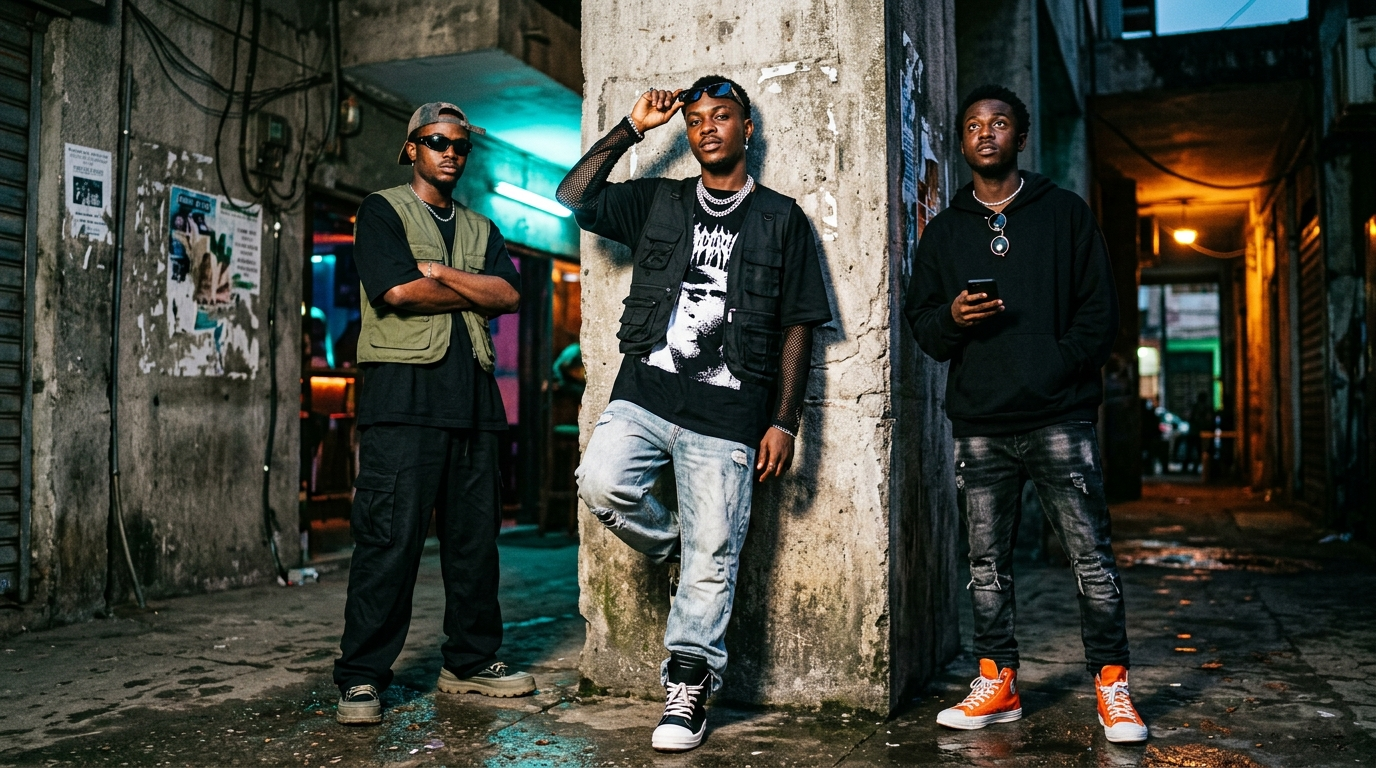
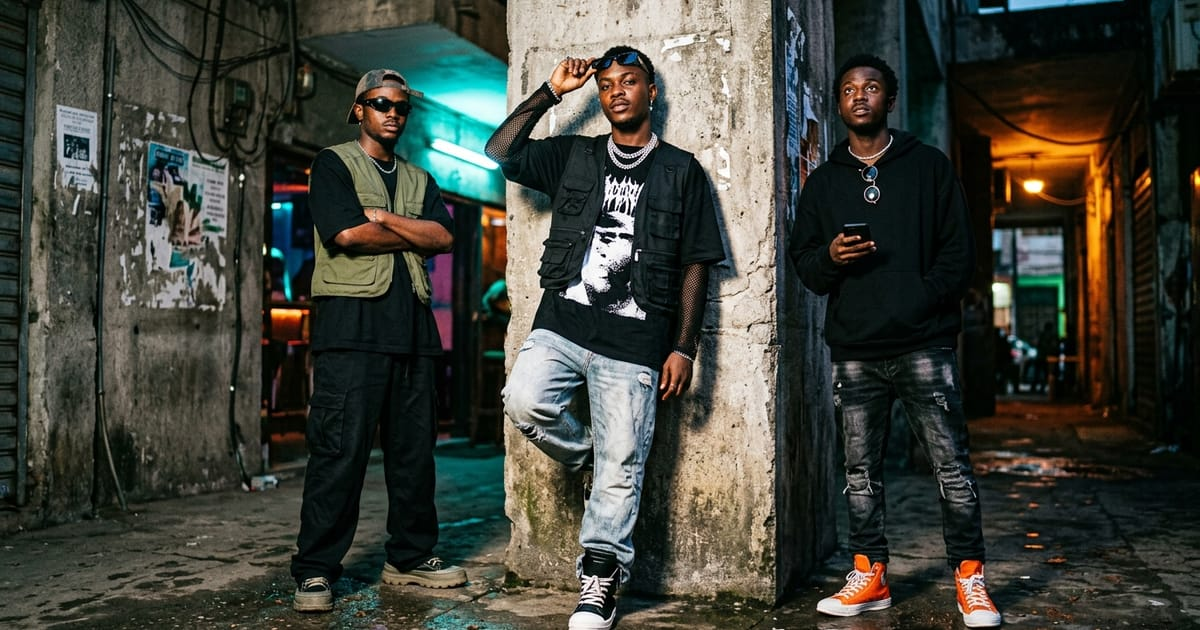
fix: compress OG image to 131KB and add direct meta tags for WhatsApp & social link crawlers

diff --git a/src/app/layout.tsx b/src/app/layout.tsx
@@ -43,6 +43,17 @@ export default function RootLayout({
         <link rel="preconnect" href="https://fonts.gstatic.com" crossOrigin="anonymous" />
         <link href="https://fonts.googleapis.com/css2?family=Inter:wght@400;500;600;700;800&display=swap" rel="stylesheet" />
         <link href="https://fonts.googleapis.com/css2?family=Material+Symbols+Outlined:opsz,wght,FILL,GRAD@24,400,0,0&display=swap" rel="stylesheet" />
+        
+        {/* Explicit Open Graph & WhatsApp tags */}
+        <meta property="og:title" content="KAKOS MENSWEAR | Streetwear Urbain Cameroun" />
+        <meta property="og:description" content="Streetwear premium et minimaliste pour l'homme contemporain au Cameroun. Livraison express à Douala & Yaoundé. Paiement à la livraison." />
+        <meta property="og:image" content="https://kakos-store.vercel.app/og-image.jpg" />
+        <meta property="og:image:secure_url" content="https://kakos-store.vercel.app/og-image.jpg" />
+        <meta property="og:image:type" content="image/jpeg" />
+        <meta property="og:image:width" content="1200" />
+        <meta property="og:image:height" content="630" />
+        <meta name="twitter:card" content="summary_large_image" />
+        <meta name="twitter:image" content="https://kakos-store.vercel.app/og-image.jpg" />
       </head>
       <body className="bg-surface text-on-surface font-sans antialiased min-h-screen flex flex-col selection:bg-[#00F0FF] selection:text-primary">
         <StorefrontLayoutWrapper>
